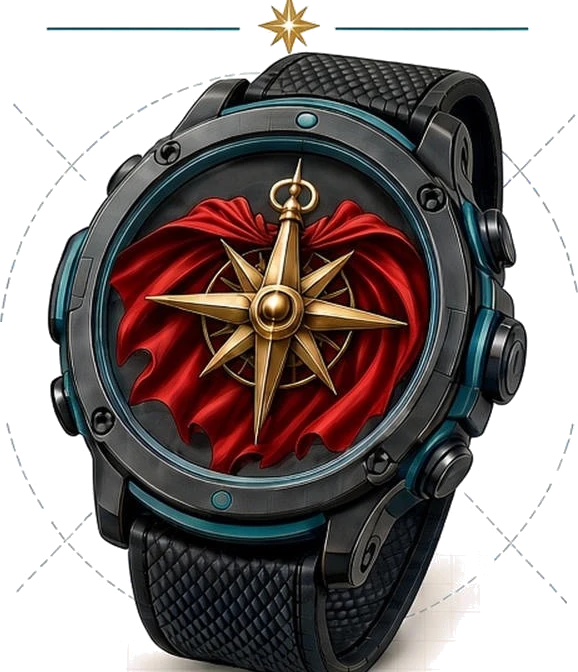
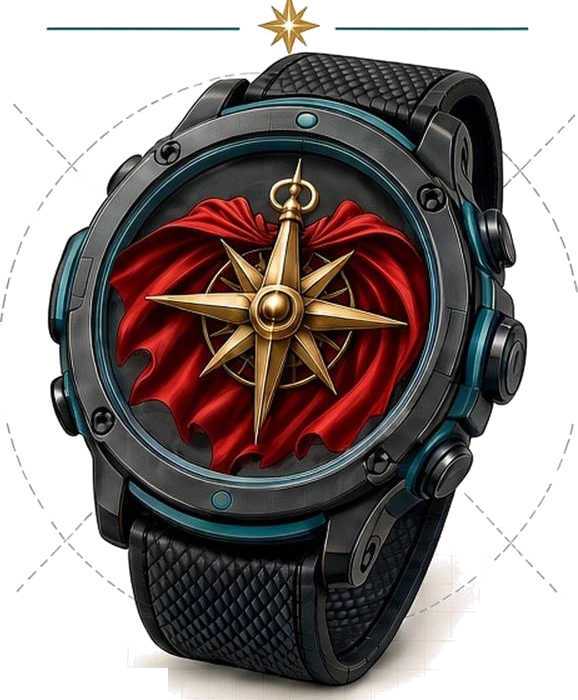
CAPE watch: include the full strap
Claude-Session: https://claude.ai/code/session_012NLqgUGQxtNtkqy8xsV31j

diff --git a/components/cape/CapeWatchNote.tsx b/components/cape/CapeWatchNote.tsx
@@ -7,8 +7,8 @@ import { cn } from '@/lib/utils';
 
 /** The CAPE watch: a red cape and gold compass star on the watch face. */
 const CAPE_WATCH = require('@/assets/images/cape-watch.webp');
-/** Cutout artwork is 578 × 672 (width / height). */
-const CAPE_WATCH_RATIO = 578 / 672;
+/** Cutout artwork is 578 × 700 (width / height). */
+const CAPE_WATCH_RATIO = 578 / 700;
 
 /** The core mantra, word for word. */
 export const CAPE_MANTRA = 'Your CAPE is yours to wear—every single day.';
